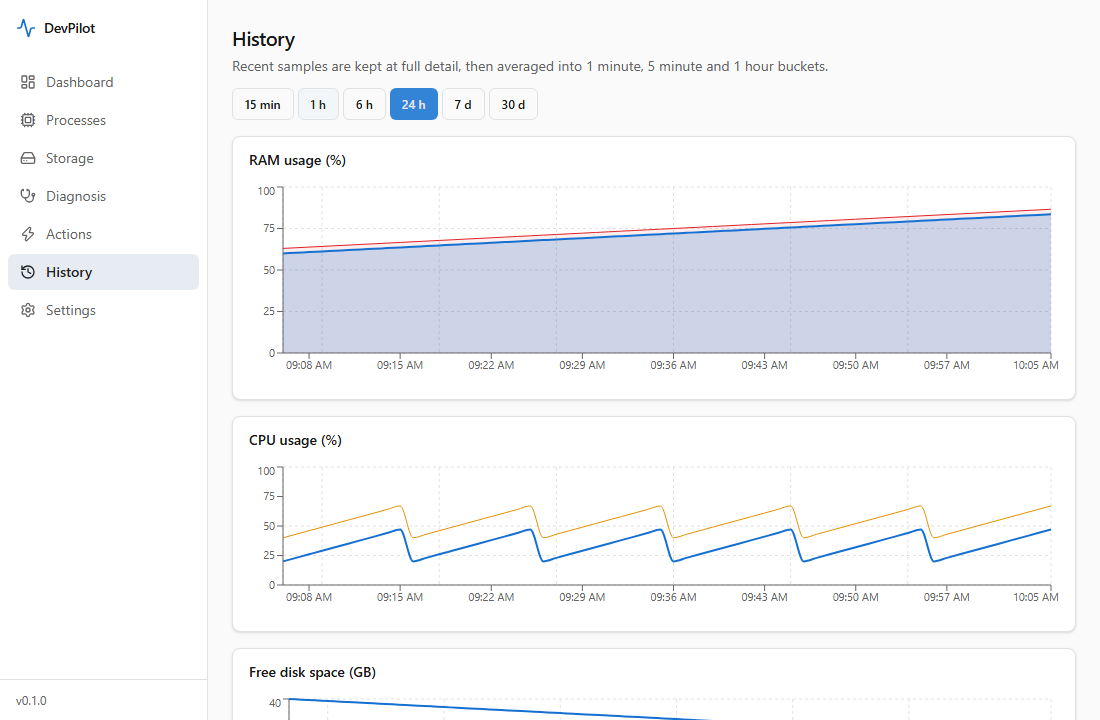
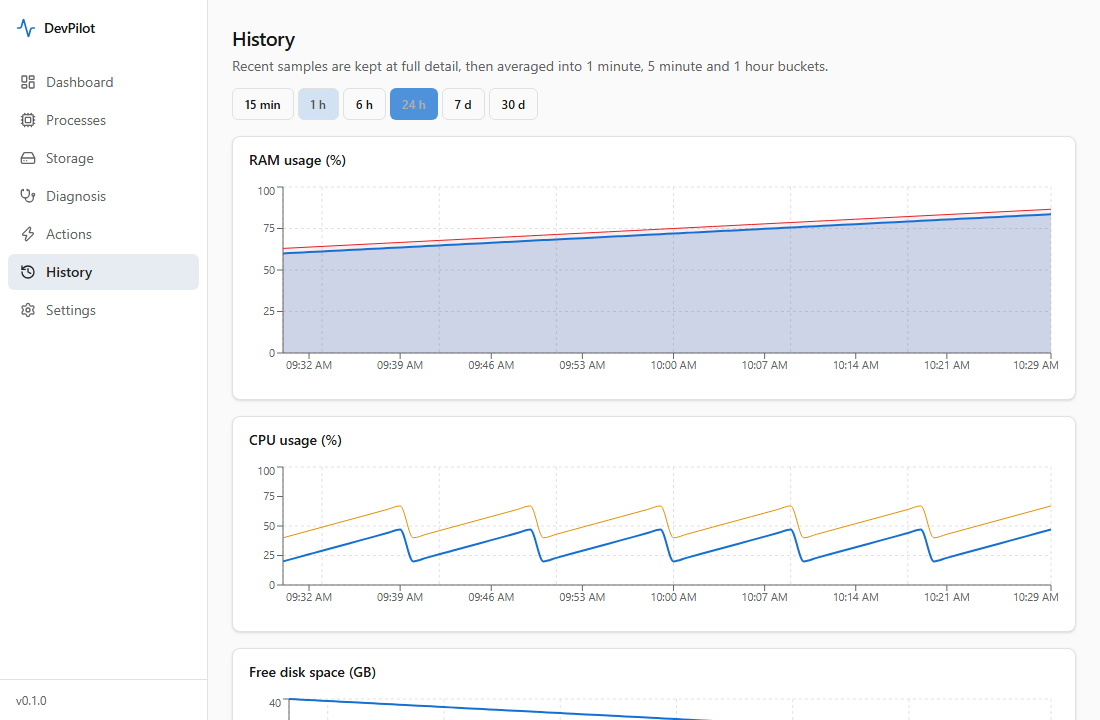
Bridge, history page and session updated

diff --git a/src/features/history/SessionList.tsx b/src/features/history/SessionList.tsx
@@ -1,0 +1,46 @@
+import { Badge } from "@/components/ui/badge";
+import { Card, CardContent, CardHeader, CardTitle } from "@/components/ui/card";
+import { formatBytes, formatDateTime } from "@/lib/format";
+import type { BuildSession } from "@/types/api";
+
+const signed = (n: number) => `${n >= 0 ? "+" : "-"}${formatBytes(Math.abs(n))}`;
+
+/** Developer build sessions: what ran, memory before/peak, and a carefully worded incident correlation. */
+export function SessionList({ items, available }: { items: BuildSession[] | undefined; available: boolean }) {
+  return (
+    <Card>
+      <CardHeader>
+        <CardTitle>Build sessions</CardTitle>
+      </CardHeader>
+      <CardContent className="space-y-4">
+        {!available && <p className="text-sm text-muted-foreground">History is unavailable, so sessions are not recorded.</p>}
+        {available && items?.length === 0 && <p className="text-sm text-muted-foreground">No builds recorded. DevPilot notes Gradle, Flutter, Next.js and npm/pnpm builds, Docker compose startups and emulator startups.</p>}
+        {items?.map((s) => (
+          <article key={s.id} className="space-y-1.5 border-b pb-3 last:border-b-0 last:pb-0">
+            <h3 className="flex flex-wrap items-center gap-2 text-sm font-medium">
+              {s.label}
+              <span className="text-xs font-normal text-muted-foreground">
+                {formatDateTime(s.startMs)} · {s.durationSecs} s
+              </span>
+              <Badge tone={s.result === "NORMAL" ? "ok" : s.result.startsWith("CRITICAL") ? "danger" : "warn"}>{s.result}</Badge>
+            </h3>
+            <p className="text-xs text-muted-foreground tabular-nums">
+              RAM before {formatBytes(s.ramBeforeBytes)} · peak {formatBytes(s.ramPeakBytes)} ({s.ramPeakPercent.toFixed(0)}%) · CPU peak {s.cpuPeakPercent.toFixed(0)}% · disk peak{" "}
+              {s.diskPeakPercent == null ? "unavailable" : `${s.diskPeakPercent.toFixed(0)}%`} · {s.processesCreated} new processes
+            </p>
+            {(s.workloadGrowth.length > 0 || s.dockerChangeBytes !== 0) && (
+              <p className="text-xs">
+                {s.workloadGrowth
+                  .slice(0, 3)
+                  .map((g) => `${g.name} +${formatBytes(g.bytes)}`)
+                  .join(", ")}
+                {s.dockerChangeBytes !== 0 && `${s.workloadGrowth.length > 0 ? " · " : ""}Docker/WSL2 host memory ${signed(s.dockerChangeBytes)}`}
+              </p>
+            )}
+            {s.correlation && s.correlation.level !== "NONE" && <p className="text-sm">{s.correlation.statement}</p>}
+          </article>
+        ))}
+      </CardContent>
+    </Card>
+  );
+}

diff --git a/tests/sessions.test.tsx b/tests/sessions.test.tsx
@@ -1,0 +1,50 @@
+import { describe, expect, it } from "vitest";
+import { render, screen } from "@testing-library/react";
+import { SessionList } from "@/features/history/SessionList";
+import type { BuildSession } from "@/types/api";
+import { GB } from "./fixtures";
+
+const session = (over: Partial<BuildSession> = {}): BuildSession => ({
+  id: 1,
+  kind: "ANDROID_BUILD",
+  label: "Android build",
+  startMs: 1_700_000_000_000,
+  endMs: 1_700_000_060_000,
+  durationSecs: 60,
+  ramBeforeBytes: 8.2 * GB,
+  ramPeakBytes: 15.4 * GB,
+  ramPeakPercent: 96,
+  cpuPeakPercent: 80,
+  diskPeakPercent: null,
+  processesCreated: 12,
+  workloadGrowth: [{ name: "Android/Gradle", bytes: 4.3 * GB }],
+  dockerChangeBytes: 1.7 * GB,
+  result: "CRITICAL MEMORY PRESSURE",
+  correlation: { level: "STRONG", incidentId: 42, statement: "Strong correlation detected. This android build overlapped incident #0042." },
+  ...over,
+});
+
+describe("session list", () => {
+  it("shows before/peak, growth, host-memory docker change and the correlation wording", () => {
+    render(<SessionList available items={[session()]} />);
+    expect(screen.getByText("Android build")).toBeInTheDocument();
+    expect(screen.getByText("CRITICAL MEMORY PRESSURE")).toBeInTheDocument();
+    expect(screen.getByText(/RAM before 8.2 GB · peak 15.4 GB/)).toBeInTheDocument();
+    expect(screen.getByText(/Android\/Gradle \+4.3 GB/)).toBeInTheDocument();
+    expect(screen.getByText(/Docker\/WSL2 host memory \+1.7 GB/)).toBeInTheDocument();
+    expect(screen.getByText(/disk peak unavailable/)).toBeInTheDocument();
+    expect(screen.getByText(/^Strong correlation detected/)).toBeInTheDocument();
+  });
+
+  it("hides the correlation line when no incident overlapped", () => {
+    render(<SessionList available items={[session({ correlation: { level: "NONE", incidentId: null, statement: "No performance incident overlapped this android build." } })]} />);
+    expect(screen.queryByText(/No performance incident overlapped/)).not.toBeInTheDocument();
+  });
+
+  it("explains empty and unavailable states", () => {
+    const { rerender } = render(<SessionList available items={[]} />);
+    expect(screen.getByText(/No builds recorded/)).toBeInTheDocument();
+    rerender(<SessionList available={false} items={undefined} />);
+    expect(screen.getByText(/History is unavailable/)).toBeInTheDocument();
+  });
+});

diff --git a/src/features/history/HistoryPage.tsx b/src/features/history/HistoryPage.tsx
@@ -7,7 +7,8 @@ import { useAsync } from "@/hooks/useAsync";
 import { call } from "@/lib/ipc";
 import { formatBytes, formatDateTime, timeAgo } from "@/lib/format";
 import { SEVERITY_TONE } from "@/lib/status";
-import type { HistoryResponse, HistoryRow, IncidentSummary, StoredAction, StoredDiagnosis } from "@/types/api";
+import type { BuildSession, HistoryResponse, HistoryRow, IncidentSummary, StoredAction, StoredDiagnosis } from "@/types/api";
+import { SessionList } from "./SessionList";
 import { IncidentList } from "./IncidentList";
 import { chartData, RANGES, tickLabel } from "./series";
 
@@ -20,6 +21,7 @@ export default function HistoryPage() {
   const diags = useAsync(() => call<HistoryResponse<StoredDiagnosis>>("get_recent_diagnoses", { limit: 15 }), { intervalMs: 60_000 });
   const acts = useAsync(() => call<HistoryResponse<StoredAction>>("get_recent_actions", { limit: 15 }), { intervalMs: 60_000 });
   const incidents = useAsync(() => call<HistoryResponse<IncidentSummary>>("get_incidents", { limit: 10 }), { intervalMs: 60_000 });
+  const sessions = useAsync(() => call<HistoryResponse<BuildSession>>("get_build_sessions", { limit: 10 }), { intervalMs: 60_000 });
 
   const rows = hist.data?.items ?? [];
   const { points, drives } = useMemo(() => chartData(rows), [rows]);
@@ -106,6 +108,7 @@ export default function HistoryPage() {
       )}
 
       <IncidentList items={incidents.data?.items} available={incidents.data?.available ?? true} />
+      <SessionList items={sessions.data?.items} available={sessions.data?.available ?? true} />
 
       <div className="grid gap-4 lg:grid-cols-2">
         <Card>

diff --git a/src/types/api.ts b/src/types/api.ts
@@ -314,3 +314,29 @@ export interface IncidentSummary {
   diagnosis: string;
   evidence: string[];
 }
+
+// --- build sessions ----------------------------------------------------------------------------
+export interface SessionCorrelation {
+  level: "STRONG" | "POSSIBLE" | "NONE";
+  incidentId: number | null;
+  statement: string;
+}
+
+export interface BuildSession {
+  id: number;
+  kind: string;
+  label: string;
+  startMs: number;
+  endMs: number;
+  durationSecs: number;
+  ramBeforeBytes: number;
+  ramPeakBytes: number;
+  ramPeakPercent: number;
+  cpuPeakPercent: number;
+  diskPeakPercent: number | null;
+  processesCreated: number;
+  workloadGrowth: IncidentContributor[];
+  dockerChangeBytes: number;
+  result: string;
+  correlation: SessionCorrelation | null;
+}

diff --git a/e2e/bridge.ts b/e2e/bridge.ts
@@ -63,6 +63,7 @@ export function defaultMocks(): Record<string, unknown> {
     get_recent_actions: { available: true, items: [] },
     get_incidents: { available: true, items: [] },
     get_incident_status: { active: false, sinceMs: null },
+    get_build_sessions: { available: true, items: [] },
     get_history: { available: true, items: rows },
     get_processes: {
       total: 2,

diff --git a/src-tauri/src/database/mod.rs b/src-tauri/src/database/mod.rs
@@ -802,3 +802,47 @@ mod incident_tests {
         assert!(db.recent_incidents(10).await.unwrap().is_empty());
     }
 }
+
+#[cfg(test)]
+mod session_tests {
+    use super::*;
+    use crate::developers::sessions::{ActivityKind, Correlation, CorrelationLevel, SessionSummary};
+
+    fn mk(start: u64) -> SessionSummary {
+        SessionSummary {
+            id: 0,
+            kind: ActivityKind::FlutterBuild,
+            label: "Flutter build".into(),
+            start_ms: start,
+            end_ms: start + 60_000,
+            duration_secs: 60,
+            ram_before_bytes: 1,
+            ram_peak_bytes: 2,
+            ram_peak_percent: 50.0,
+            cpu_peak_percent: 10.0,
+            disk_peak_percent: None,
+            processes_created: 3,
+            workload_growth: vec![],
+            docker_change_bytes: -5,
+            result: "NORMAL".into(),
+            correlation: None,
+        }
+    }
+
+    #[tokio::test]
+    async fn sessions_round_trip_newest_first_without_stored_correlation() {
+        let db = Database::memory().await.unwrap();
+        let mut with_corr = mk(1_000);
+        with_corr.correlation = Some(Correlation {
+            level: CorrelationLevel::Strong,
+            incident_id: Some(1),
+            statement: "x".into(),
+        });
+        db.insert_session(&with_corr).await.unwrap();
+        db.insert_session(&mk(9_000)).await.unwrap();
+        let list = db.recent_sessions(10).await.unwrap();
+        assert_eq!(list[0].start_ms, 9_000);
+        assert_eq!(list[1].docker_change_bytes, -5);
+        assert!(list[1].correlation.is_none(), "correlation is computed at query time");
+    }
+}

diff --git a/docs/MONITORING.md b/docs/MONITORING.md
@@ -140,3 +140,21 @@ Each sample records RAM, available RAM, commit, pagefile, hard faults, CPU, disk
 The summary (SQLite `incidents`, 90 days) holds peaks, triggers, contributors (peak memory per workload, never summed across samples), a mechanism classified from the *peak* values, a hedged diagnosis, confidence, evidence and a 120-point timeline. Missing counters lower confidence and the text says the cause could not be determined.
 
 IPC: `get_incidents(limit)`, `get_incident_status`. Events: `incident-started`, `incident-finished` (summary). The History page lists incidents.
+
+## Build sessions (`developers/sessions.rs`)
+
+Detected from the process list each tick (cheap prefilter first): Gradle/Android build (wrapper or launcher client, or a Gradle daemon above 3% total CPU; an idle daemon is not a build; Android evidence makes it an Android build), Flutter build (`flutter_tools` + `build`), Next.js build, npm/pnpm build (suppressed under a Next.js build), Docker compose startup, Android emulator startup. Startup activities are time-boxed (compose 180 s, emulator 120 s) and cannot restart until their process has disappeared once.
+
+A session ends 10 s after the activity vanishes (builds spawn and die in bursts); sessions shorter than 5 s are dropped. It records RAM before (about 15 s earlier), RAM peak, CPU and disk peaks, new processes, per-workload memory growth, Docker/WSL2 change (host-process memory, not container-reported) and a result label from the peak.
+
+Correlation with incidents is computed when listing, never stored:
+
+| Level | Needs |
+|-------|-------|
+| STRONG | overlaps an incident (30 s slack), RAM grew >= 1 GiB, workload growth explains >= half of it. Text: "Strong correlation detected ... does not by itself prove ..." |
+| POSSIBLE | overlap in time only |
+| NONE | no overlap, no claim |
+
+Timing alone never produces STRONG, and the wording never says the build "caused" an incident. Active session names are stored in each incident sample. IPC: `get_build_sessions(limit)`.
+
+Limits: command lines are redacted and capped at 300 characters, so a `build` argument beyond that is not seen.
